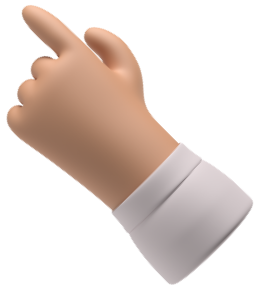
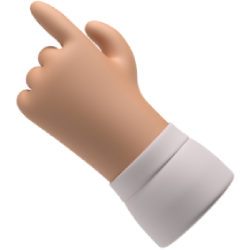
Add wave animation

diff --git a/main.css b/main.css
@@ -10,7 +10,7 @@ body {
   padding: 0;
   margin: 0;
   font-family: "Josefin Sans", sans-serif;
-  cursor: none;
+  /* cursor: none; */
   overflow: hidden;
 }
 
@@ -18,7 +18,12 @@ body {
   width: 150px;
   height: 150px;
   position: absolute;
+  left: calc(50% - 75px);
+  bottom: 200px;
   pointer-events: none;
+  transform-origin: right bottom;
+  animation: hand-wave 1s ease-in-out 1s 2;
+  transition: all ease-in-out;
 }
 
 .hidden {
@@ -81,7 +86,7 @@ body {
 
 .social-link {
   text-decoration: none;
-  cursor: none;
+  cursor: inherit;
 }
 
 .social-link:hover {
@@ -97,5 +102,24 @@ body {
   }
   #text {
     font-size: 24px;
+  }
+}
+
+/* WAVE ANIMATION */
+@keyframes hand-wave {
+  0% {
+    transform: rotate(0deg);
+  }
+  25% {
+    transform: rotate(10deg);
+  }
+  50% {
+    transform: rotate(0deg);
+  }
+  75% {
+    transform: rotate(10deg);
+  }
+  100% {
+    transform: rotate(0deg);
   }
 }

diff --git a/main.js b/main.js
@@ -1,9 +1,14 @@
 const cursor = document.querySelector("#cursor");
 
-document.addEventListener("mousemove", (e) => {
-  cursor.classList.remove("hidden");
-  cursor.setAttribute(
-    "style",
-    "top: " + (e.pageY - 10) + "px; left: " + (e.pageX - 10) + "px;"
-  );
-});
+// setTimeout(() => {
+//   document.addEventListener("mousemove", (e) => {
+//     if (window.innerWidth < 768) return;
+
+//     cursor.src = "./imgs/pointing-hand-tilted.png";
+
+//     cursor.setAttribute(
+//       "style",
+//       `top: ${e.pageY}px; left: ${e.pageX}px; animation: none`
+//     );
+//   });
+// }, 3000);

diff --git a/index.html b/index.html
@@ -9,7 +9,6 @@
   </head>
   <body>
     <main class="main">
-      <div class="cursor"></div>
       <section class="header">
         <h1 id="title">Muhammad Musa</h1>
         <h2 id="subtitle">Software Engineer</h2>
@@ -87,10 +86,9 @@
       </section>
     </main>
     <img
-      src="./imgs/pointing-hand-tilted.png"
+      src="./imgs/waving-hand-tilted.png"
       alt="cursor"
       id="cursor"
-      class="hidden"
     />
     <script src="main.js"></script>
   </body>
